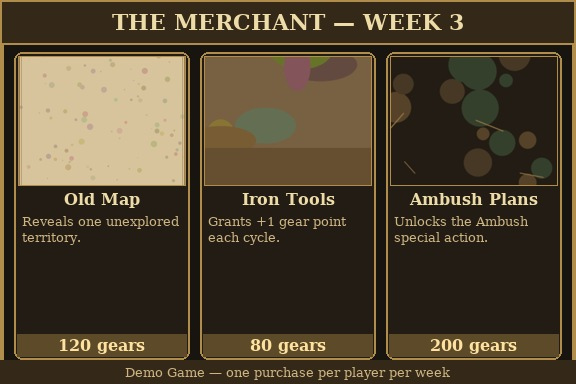
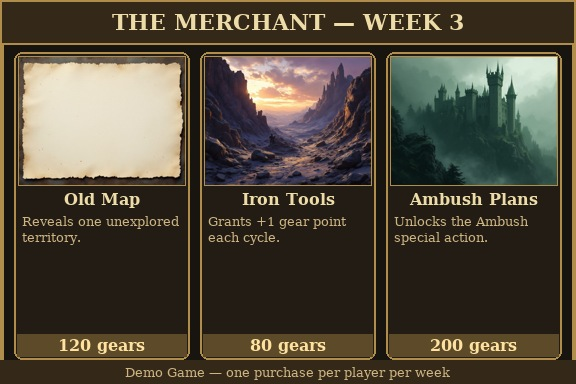
examples: image-model generated art replaces the procedural stand-ins
- 17 generated assets (battle backdrop, castle, fantasy world map,
  parchment texture, stronghold art, 2 player portraits, 2 heraldic
  crests, 3 civ emblems, 6 territory landscapes), all prompted
  text-free and inspected: no text, letters or pseudo-writing
- world_map example now uses a real fantasy map; region spots
  re-placed on actual landmasses (crest medallions + one colored pin)
- assets recompressed (max 900px, ~30-135 KB each); procedural PNG
  stand-ins removed from the repo (vg-demo-assets still generates
  them on demand for projects without an image model)
- all 5 examples re-rendered and visually validated; doc updated
  (AGENTS.md rule 8, README CLI note)

Changed region(s): [[0.0312, 0.125, 0.9688, 0.5]]

diff --git a/AGENTS.md b/AGENTS.md
@@ -38,8 +38,10 @@ belong in the JSON data files of the consuming project, never here.
    via generated links or sandbox paths.
 8. **No game-specific content.** Names, brands, crests and lore of a
    concrete game live in that game's repository. This repo ships
-   neutral examples only (`visual_generator/demo_assets.py` generates the
-   demo art procedurally, without any image model).
+   neutral examples only. The shipped example art is image-model
+   generated (always prompted text-free, and inspected before commit);
+   `visual_generator/demo_assets.py` provides procedural stand-in art
+   for projects without an image model.
 
 ## Workflow
 

diff --git a/README.md b/README.md
@@ -90,7 +90,8 @@ bump (SemVer).
 | `template_structure` | `(name: str) -> dict` | Declared structure of a template: canvas + zones |
 
 CLIs (same fail-closed contract): `vg-render`, `vg-ocr-check`,
-`vg-demo-assets` (regenerates the neutral demo art procedurally).
+`vg-demo-assets` (procedural stand-in art — text-free, no image model
+needed; the shipped `examples/assets/` are image-model generated).
 
 ## Targets and declared structure
 
